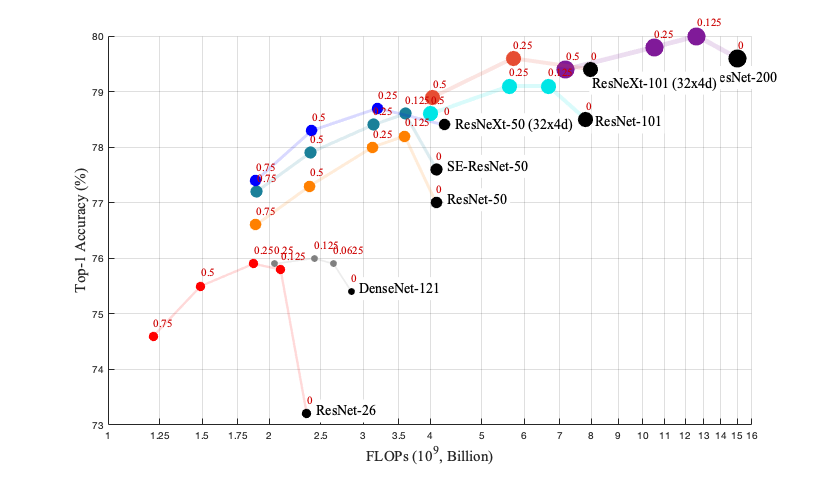
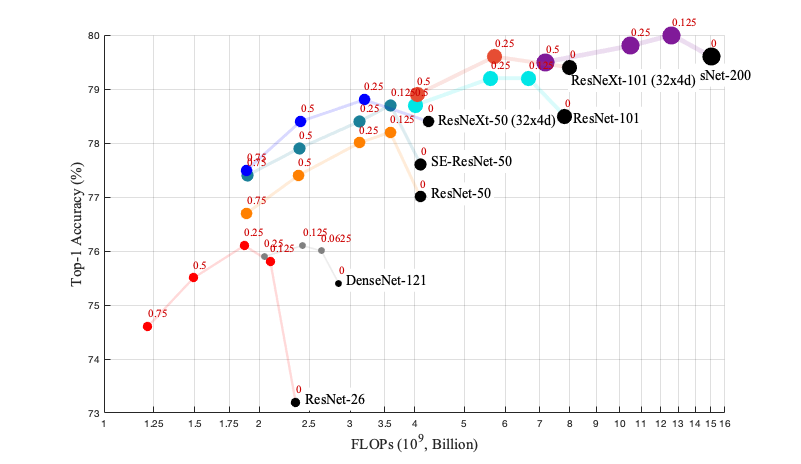
add pre-trained models (ablation)

diff --git a/utils/symbol/score.py b/utils/symbol/score.py
@@ -1,0 +1,94 @@
+# Copyright (c) Facebook, Inc. and its affiliates.
+#
+# This source code is licensed under the MIT license found in the
+# LICENSE file in the root directory of this source tree.
+
+"""
+script for testing the pre-trained model
+- ref: https://github.com/cypw/DPNs/blob/master/score.py
+"""
+import argparse
+import mxnet as mx
+import time
+import os
+import logging
+
+def score(model, dataset, metrics, gpus, batch_size, rgb_mean, network,
+          data_shape, epoch, scale=0.0167):
+    # create data iterator
+    rgb_mean = [float(i) for i in rgb_mean.split(',')]
+    data_shape = tuple([int(i) for i in data_shape.split(',')])
+    data = mx.io.ImageRecordIter(
+        data_name          = 'data',
+        label_name         = 'softmax_label',
+        # ------------------------------------
+        path_imgrec        = dataset,
+        label_width        = 1,
+        data_shape         = data_shape,
+        preprocess_threads = 16,
+        # ------------------------------------ 
+        batch_size         = batch_size,
+        # ------------------------------------ 
+        mean_r             = rgb_mean[0],
+        mean_g             = rgb_mean[1],
+        mean_b             = rgb_mean[2],
+        scale              = scale,
+        # ------------------------------------
+        rand_crop          = False,
+        resize             = 256,
+        inter_method       = 2 # bicubic
+        )
+
+    # load parameters
+    sym, arg_params, aux_params = mx.model.load_checkpoint(model, epoch)
+    logging.info('loading {}-{:04d}.params'.format(model, epoch))
+    logging.info('loading {}-symbol.json'.format(model, epoch))
+
+    # bind
+    devs = mx.cpu() if not gpus else [mx.gpu(int(i)) for i in gpus.split(',')]
+    mod = mx.mod.Module(symbol=sym, context=devs)
+    mod.bind(for_training=False,
+             data_shapes=data.provide_data,
+             label_shapes=data.provide_label)
+    mod.set_params(arg_params, aux_params)
+    if not isinstance(metrics, list):
+        metrics = [metrics,]
+
+    # testing    
+    num = 0
+    for batch in data:
+        tic = time.time()
+        mod.forward(batch, is_train=False)
+        for m in metrics[::-1]:
+            mod.update_metric(m, batch.label)
+        num += batch_size
+        if num%10000==0:
+            cost = 1000 * (time.time() - tic) / batch_size # ms
+            logging.info('{}: {}, {:.1f} ms/im'.format(num,m.get(),cost))
+
+    return
+
+
+if __name__ == '__main__':
+    parser = argparse.ArgumentParser(description='score a model on a dataset')
+    parser.add_argument('--model',       type=str, required=True,)
+    parser.add_argument('--gpus',        type=str, default='1')
+    parser.add_argument('--batch-size',  type=int, default=200)
+    parser.add_argument('--epoch',       type=int, default=0)
+    parser.add_argument('--rgb-mean',    type=str, default='124,117,104')
+    parser.add_argument('--dataset',     type=str, default='/tmp/val.rec')
+    parser.add_argument('--data-shape',  type=str, default='3,224,224')
+    parser.add_argument('--network',     type=str)
+    args = parser.parse_args()
+
+    logger = logging.getLogger()
+    logger.setLevel(logging.DEBUG)
+
+    metrics = [mx.metric.create('acc'),
+               mx.metric.create('top_k_accuracy', top_k = 5)]
+
+    score(metrics = metrics, **vars(args))
+    logging.info('Finished')
+
+    for m in metrics:
+        logging.info(m.get())

diff --git a/README.md b/README.md
@@ -9,10 +9,9 @@ Note:
 
 ## To Do List
 - [x] [Code for ablation study (by Symbol API)](utils/symbol)
+- [x] Trained models (ablation)
 - [ ] Code for the rest exps (by Gluon API)
-- [ ] Training script
-- [ ] Training logs
-- [ ] Trained models
+- [ ] Trained models (rest exps)
 
 
 ## ImageNet
@@ -24,7 +23,19 @@ Note:
 
 ![example](figs/ablation.png)
 
+|     Model    |   baseline  |  alpha = 0.125  |  alpha = 0.25   |   alpha = 0.5   |  alpha = 0.75   |
+|:------------:|:-----------:|:---------------:|:---------------:|:---------------:|:---------------:|
+| DenseNet-121 | 75.4 / 92.7 | [76.1 / 93.0](https://dl.fbaipublicfiles.com/octconv/ablation/a01_densenet-121_alpha-0.125.tar) | [75.9 / 93.1](https://dl.fbaipublicfiles.com/octconv/ablation/a01_densenet-121_alpha-0.250.tar) |        --       |        --       |
+|  ResNet-26   | 73.2 / 91.3 | [75.8 / 92.6](https://dl.fbaipublicfiles.com/octconv/ablation/a02_resnet-26_alpha-0.125.tar) | [76.1 / 92.6](https://dl.fbaipublicfiles.com/octconv/ablation/a02_resnet-26_alpha-0.250.tar) | [75.5 / 92.5](https://dl.fbaipublicfiles.com/octconv/ablation/a02_resnet-26_alpha-0.500.tar) | [74.6 / 92.1](https://dl.fbaipublicfiles.com/octconv/ablation/a02_resnet-26_alpha-0.750.tar) |
+|  ResNet-50   | 77.0 / 93.4 | [78.2 / 93.9](https://dl.fbaipublicfiles.com/octconv/ablation/a03_resnet-50_alpha-0.125.tar) | [78.0 / 93.8](https://dl.fbaipublicfiles.com/octconv/ablation/a03_resnet-50_alpha-0.250.tar) | [77.4 / 93.6](https://dl.fbaipublicfiles.com/octconv/ablation/a03_resnet-50_alpha-0.500.tar) | [76.7 / 93.0](https://dl.fbaipublicfiles.com/octconv/ablation/a03_resnet-50_alpha-0.750.tar) |
+| SE-ResNet-50 | 77.6 / 93.6 | [78.7 / 94.1](https://dl.fbaipublicfiles.com/octconv/ablation/a05_se-resnet-50_alpha-0.125.tar) | [78.4 / 94.0](https://dl.fbaipublicfiles.com/octconv/ablation/a05_se-resnet-50_alpha-0.250.tar) | [77.9 / 93.8](https://dl.fbaipublicfiles.com/octconv/ablation/a05_se-resnet-50_alpha-0.500.tar) | [77.4 / 93.5](https://dl.fbaipublicfiles.com/octconv/ablation/a05_se-resnet-50_alpha-0.750.tar) |
+|  ResNeXt-50  | 78.4 / 94.0 |       --        | [78.8 / 94.2](https://dl.fbaipublicfiles.com/octconv/ablation/a04_resnext-50_32x4d_alpha-0.250.tar) | [78.4 / 94.0](https://dl.fbaipublicfiles.com/octconv/ablation/a04_resnext-50_32x4d_alpha-0.500.tar) | [77.5 / 93.6](https://dl.fbaipublicfiles.com/octconv/ablation/a04_resnext-50_32x4d_alpha-0.750.tar) |
+|  ResNet-101  | 78.5 / 94.1 | [79.2 / 94.4](https://dl.fbaipublicfiles.com/octconv/ablation/a06_resnet-101_alpha-0.125.tar) | [79.2 / 94.4](https://dl.fbaipublicfiles.com/octconv/ablation/a06_resnet-101_alpha-0.250.tar) | [78.7 / 94.1](https://dl.fbaipublicfiles.com/octconv/ablation/a06_resnet-101_alpha-0.500.tar) |       --        |
+|  ResNeXt-101 | 79.4 / 94.6 |       --        | [79.6 / 94.5](https://dl.fbaipublicfiles.com/octconv/ablation/a07_resnext-101_32x4d_alpha-0.250.tar) | [78.9 / 94.4](https://dl.fbaipublicfiles.com/octconv/ablation/a07_resnext-101_32x4d_alpha-0.500.tar) |       --        |
+|  ResNet-200  | 79.6 / 94.7 | [80.0 / 94.9](https://dl.fbaipublicfiles.com/octconv/ablation/a08_resnet-200_alpha-0.125.tar) | [79.8 / 94.8](https://dl.fbaipublicfiles.com/octconv/ablation/a08_resnet-200_alpha-0.250.tar) | [79.5 / 94.7](https://dl.fbaipublicfiles.com/octconv/ablation/a08_resnet-200_alpha-0.500.tar) |       --        |
+
 Note:
+- Top-1 / Top-5, single center crop accuracy is shown in the table. ([testing script](utils/symbol/score.py))
 - All residual networks in ablation study adopt pre-actice version[1] for convenience.
 
 
